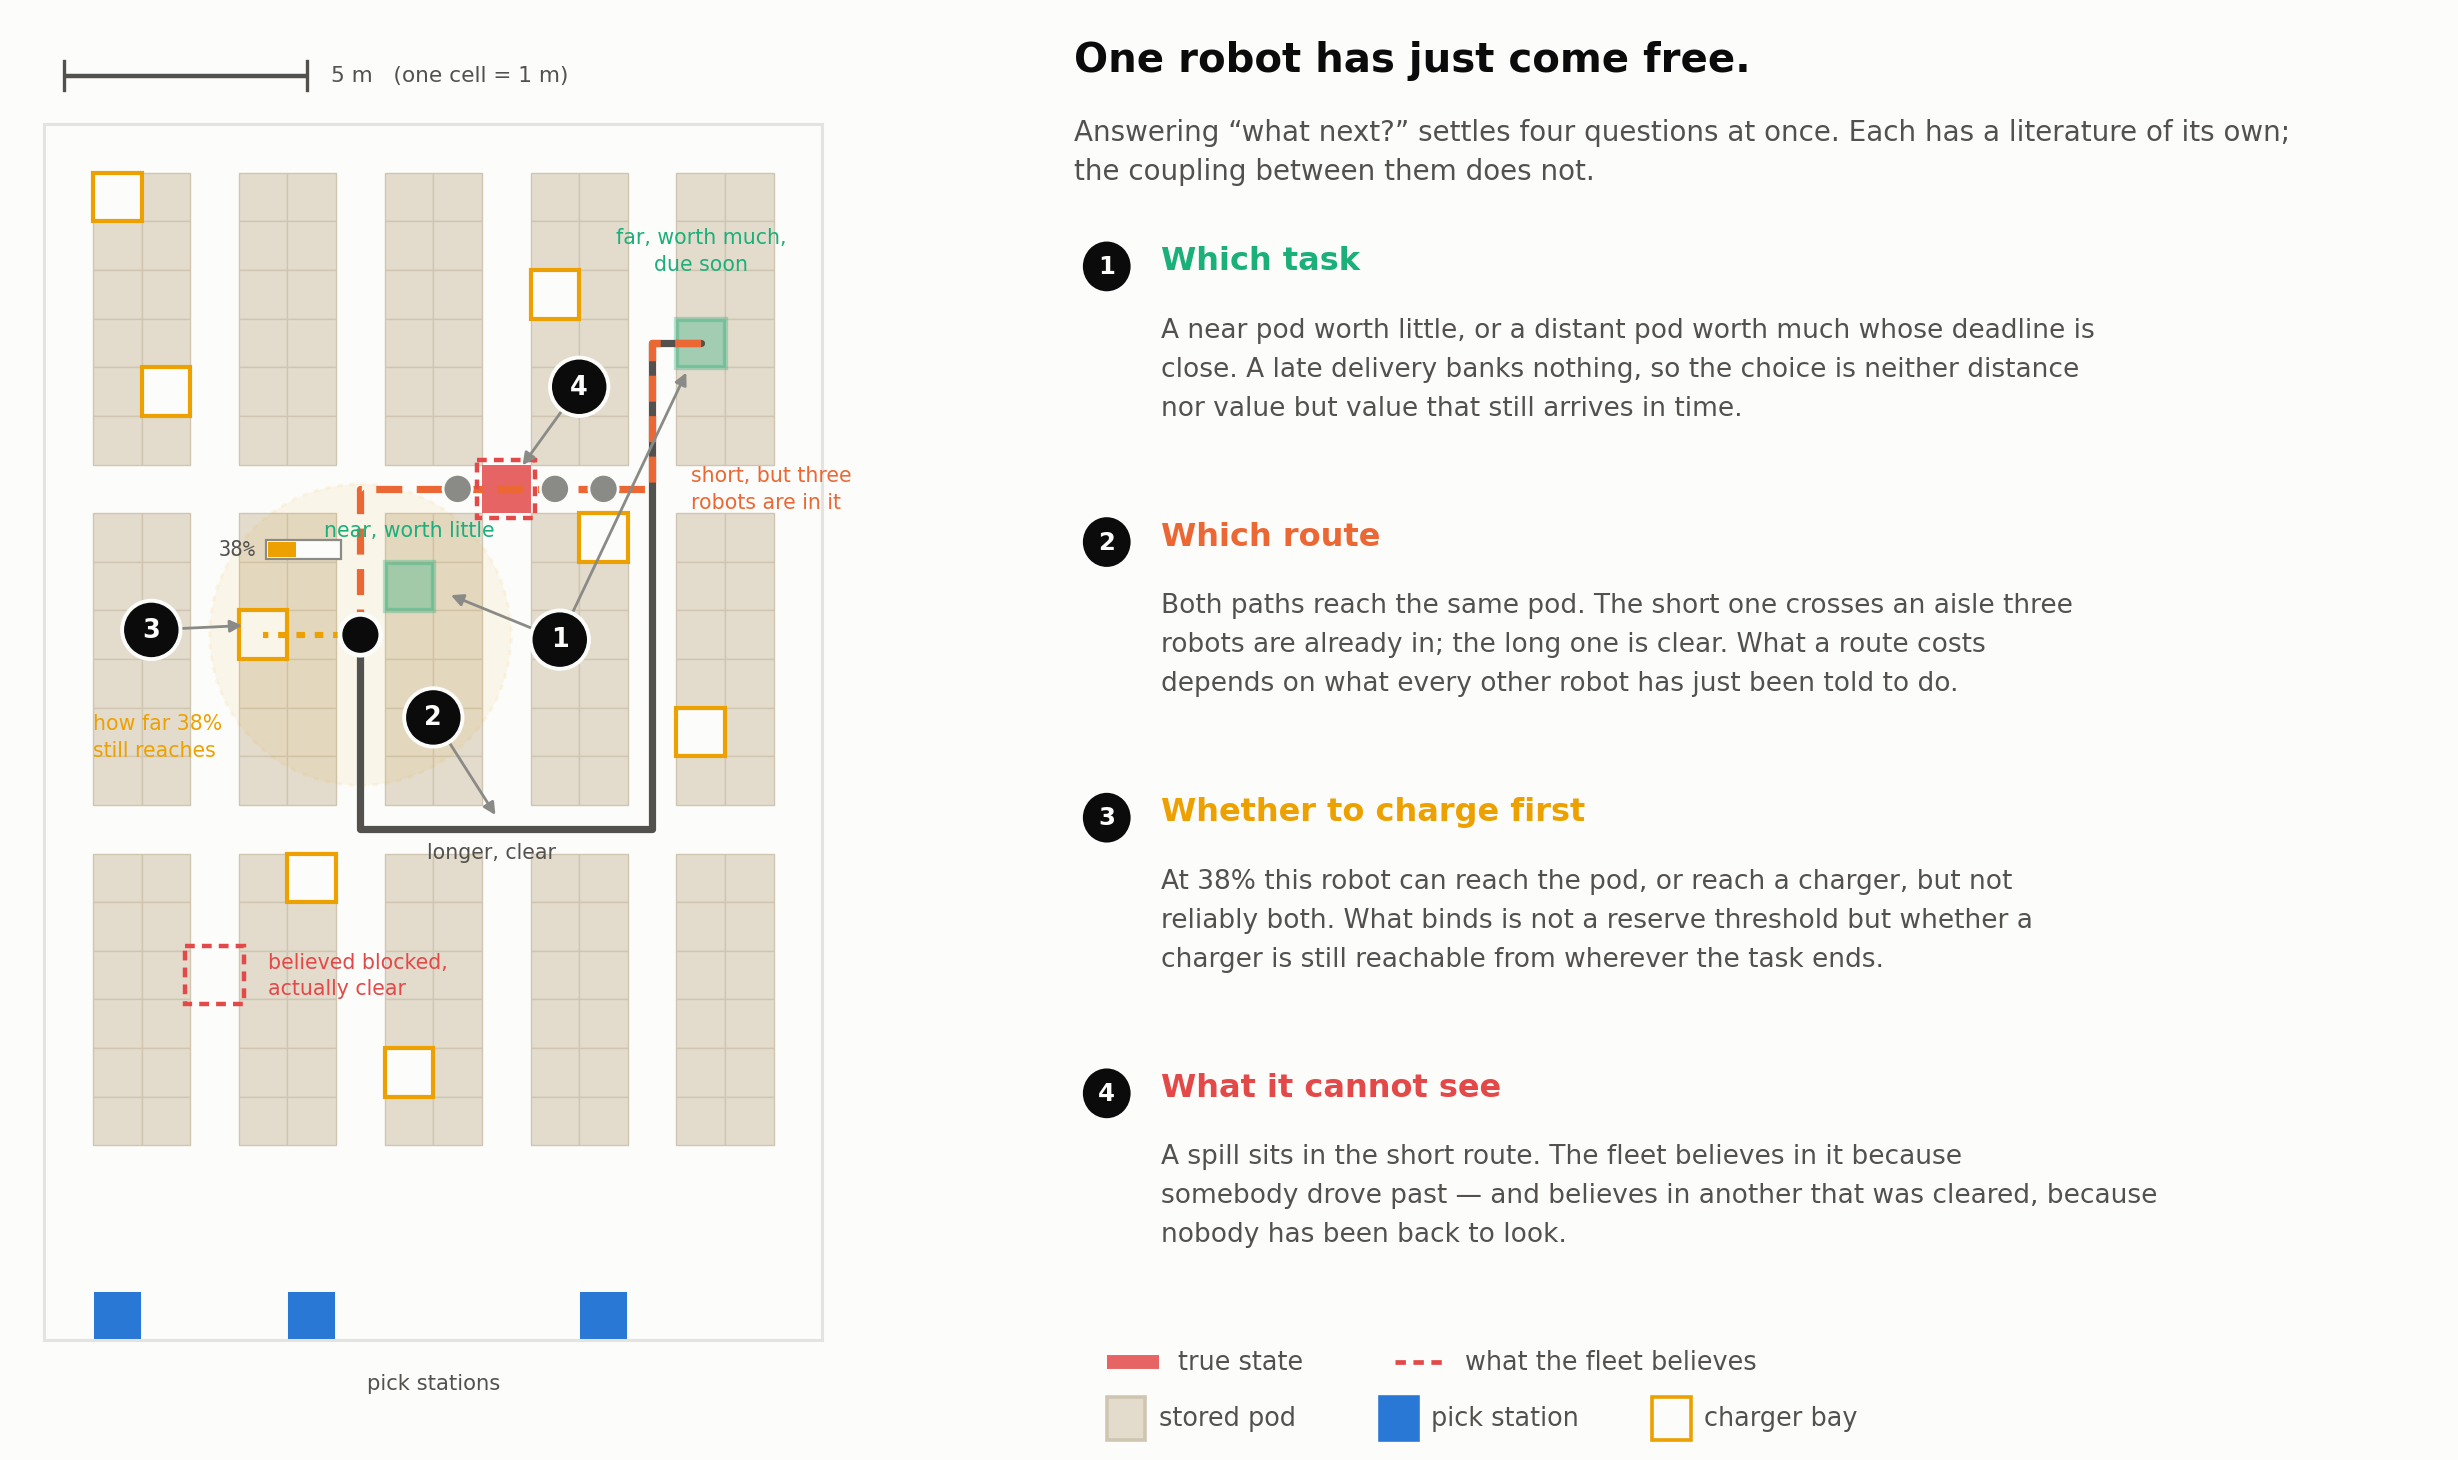
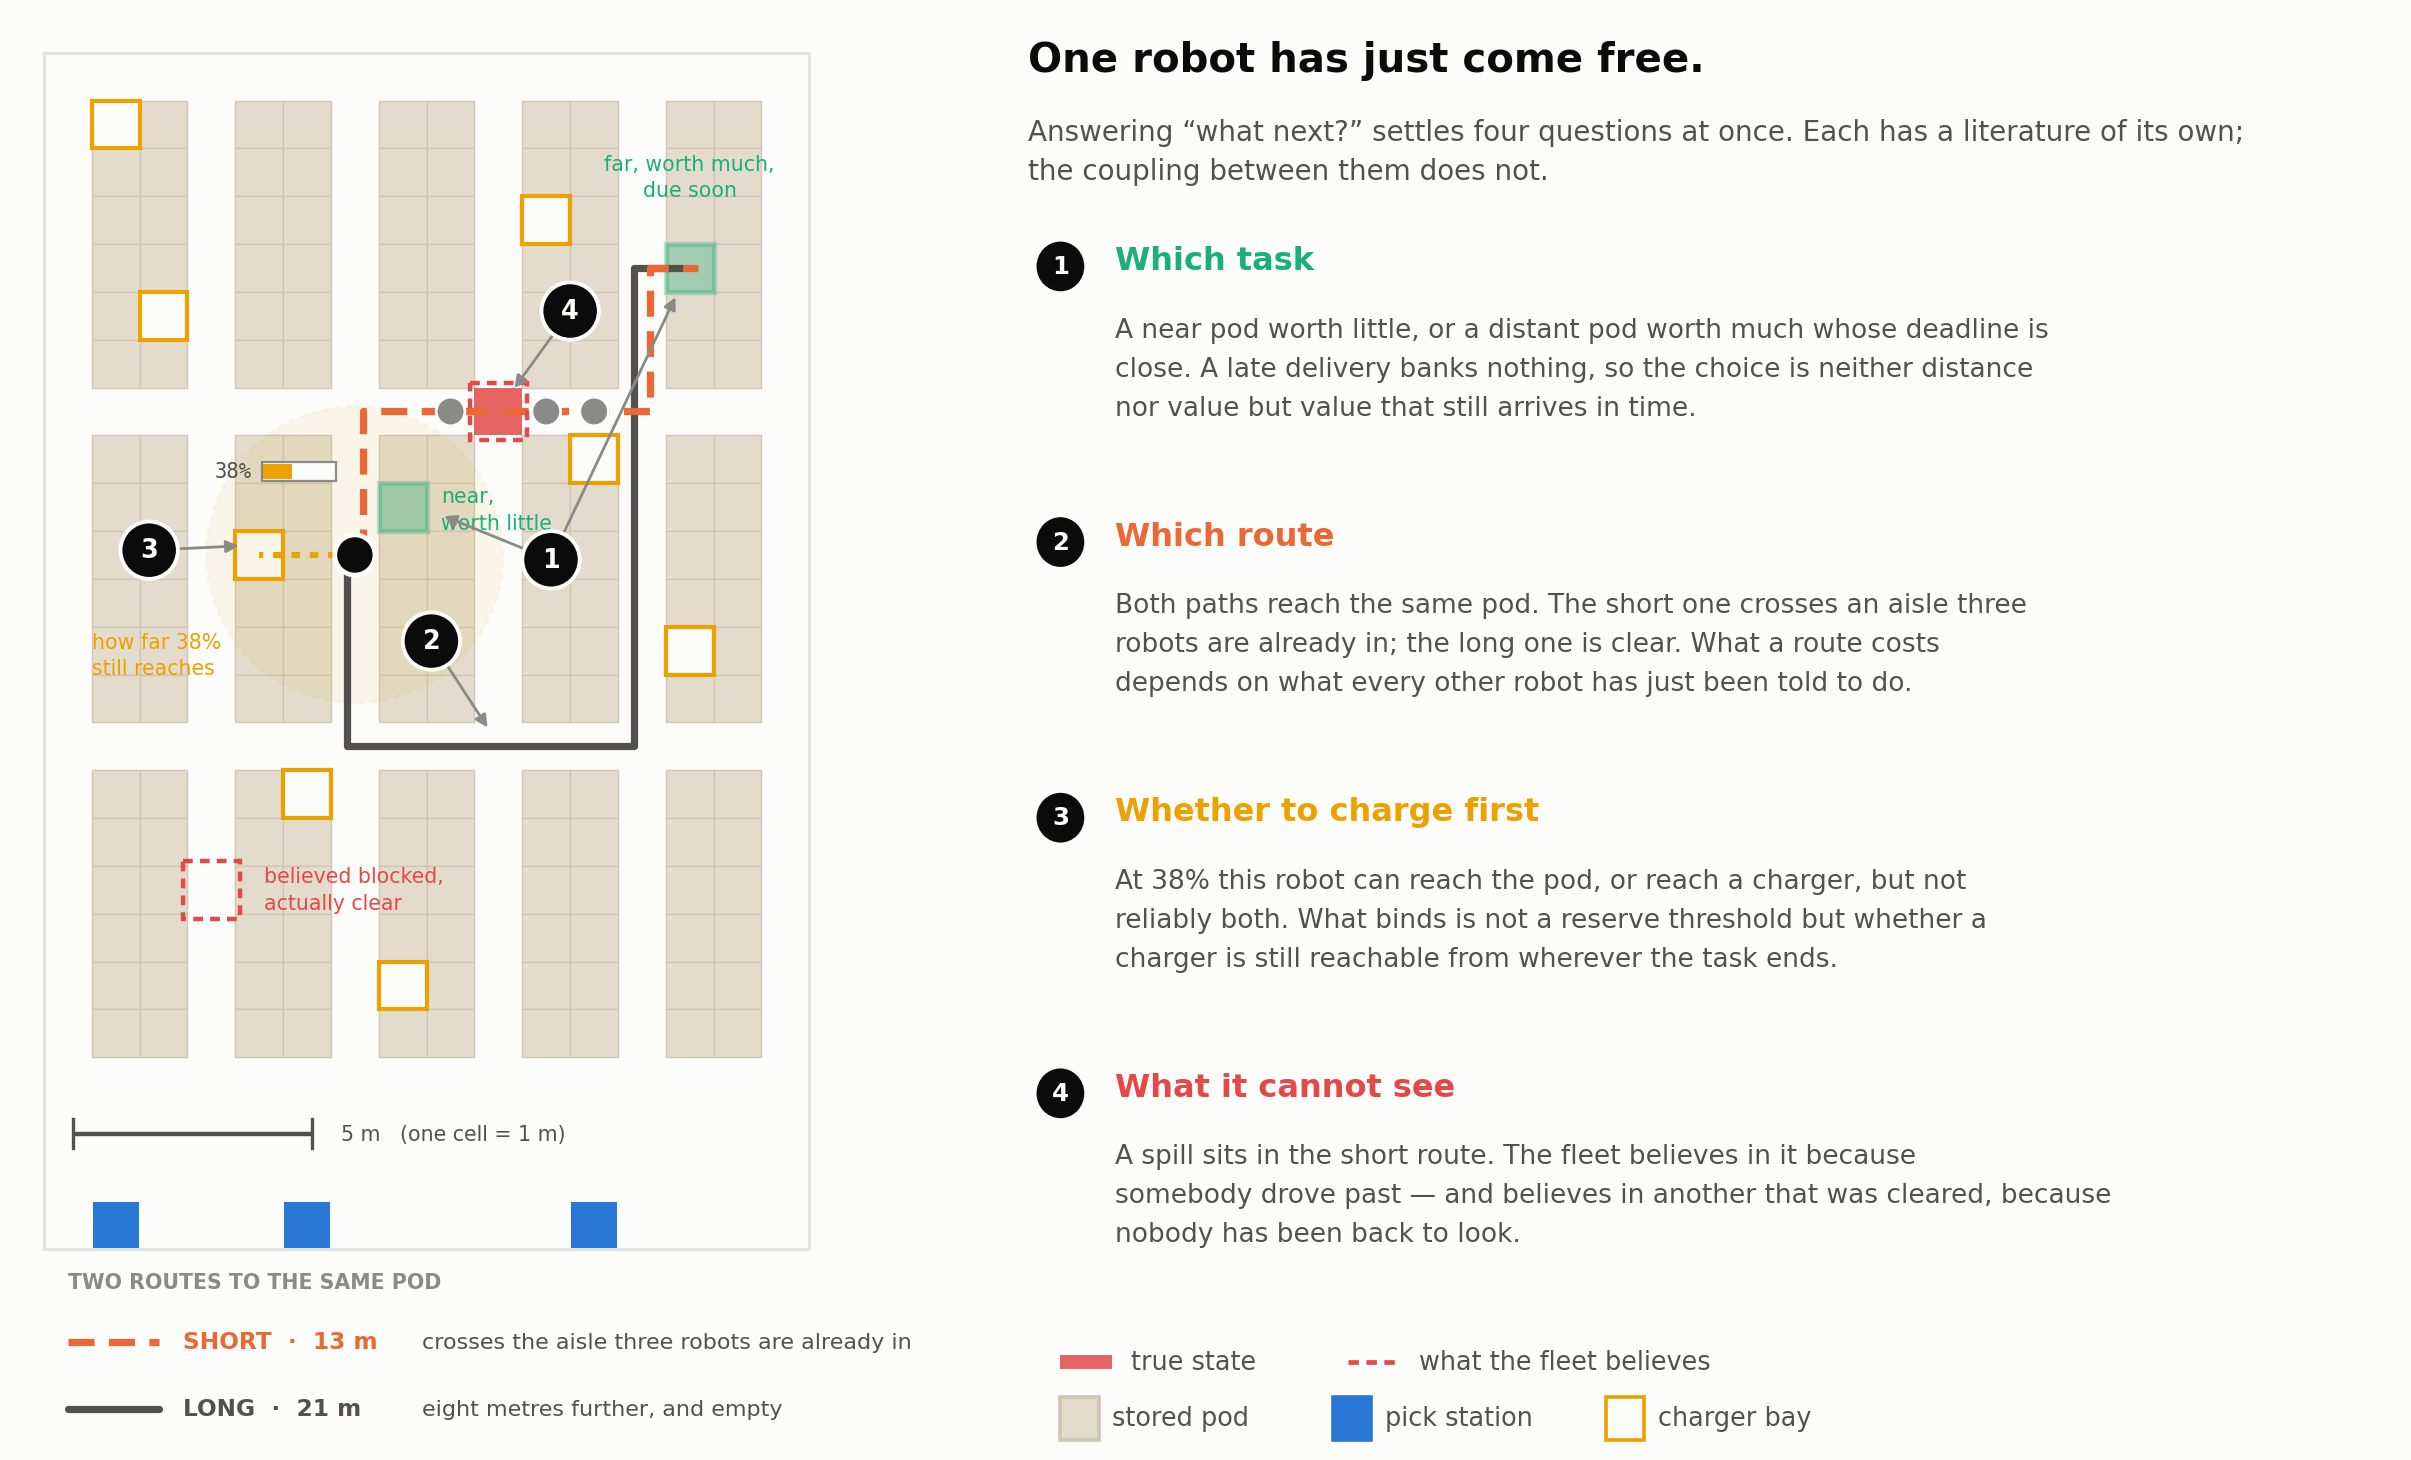
Figure 1: make the two routes traceable and name them
The routes shared the x=12 stretch, so neither could be followed end to end.
Draw them with a small lateral offset and name each in a key below the plan
(SHORT 13 m / LONG 21 m, both verified against the drawn polylines) rather
than in labels squeezed into the aisles, where the text did not fit.

Also: badge 2 now lands on the long route's detour leg instead of blank
aisle, the scale bar moves into the empty cross-aisle band, and the
duplicate "pick stations" floor label goes (the legend already names them).

diff --git a/scripts/make_paper_figures.py b/scripts/make_paper_figures.py
@@ -349,7 +349,7 @@ def fig_coupled():
     hazard red, stations blue. Nothing carries meaning by hue alone -- every element is also
     labelled on the floor.
     """
-    from matplotlib.patches import Rectangle, Circle, FancyArrowPatch
+    from matplotlib.patches import (Rectangle, Circle, FancyArrowPatch, FancyBboxPatch)
     W, H = 16, 25
     aisle_x = {0, 3, 6, 9, 12, 15}
     cross_y = {0, 7, 14, 21, 22, 23, 24}
@@ -377,8 +377,6 @@ def fig_coupled():
             elif not is_hw(x, y):
                 ax.add_patch(Rectangle((x, y), 1, 1, fc=RACK, ec=RACK_E, lw=.5, zorder=1))
     ax.add_patch(Rectangle((0, 0), W, H, fc="none", ec=GRID, lw=1.1, zorder=4))
-    ax.text(W / 2, 25.9, "pick stations", ha="center", va="center", fontsize=7.6,
-            color=INK2, zorder=5)
 
     # ---- (4) hazard: one real, one believed but already cleared -----------------------------
     ax.add_patch(Rectangle((9, 7), 1, 1, fc=BAD, alpha=.85, ec="none", zorder=3))
@@ -390,23 +388,42 @@ def fig_coupled():
             va="center", zorder=7, linespacing=1.4)
 
     # ---- (2) two routes to the same pod ------------------------------------------------------
+    # The two paths share the x = 12 stretch, so they are drawn with a small lateral offset:
+    # without it neither route can be traced end to end where they overlap.
     clear = [(6, 10), (6, 14), (12, 14), (12, 4), (13, 4)]
     congested = [(6, 10), (6, 7), (12, 7), (12, 4), (13, 4)]
-    ax.plot([c(*p)[0] for p in clear], [c(*p)[1] for p in clear],
-            color=INK2, lw=2.6, zorder=5, solid_capstyle="round")
-    ax.plot([c(*p)[0] for p in congested], [c(*p)[1] for p in congested],
-            color=C2, lw=2.6, ls=(0, (3.6, 2.0)), zorder=5, solid_capstyle="round")
+
+    def path(pts, dx):
+        return [c(*p)[0] + dx for p in pts], [c(*p)[1] for p in pts]
+
+    xs, ys = path(clear, -0.17)
+    ax.plot(xs, ys, color=INK2, lw=2.6, zorder=5, solid_capstyle="round")
+    xs, ys = path(congested, +0.17)
+    ax.plot(xs, ys, color=C2, lw=2.6, ls=(0, (3.6, 2.0)), zorder=5, solid_capstyle="round")
+
     for p in ((8, 7), (10, 7), (11, 7)):
         ax.add_patch(Circle(c(*p), .30, fc=INK3, ec=SURFACE, lw=1.0, zorder=7))
-    ax.text(13.3, 7.5, "short, but three\nrobots are in it", fontsize=7.4, color=C2,
-            va="center", zorder=7, linespacing=1.4)
-    ax.text(9.2, 15.1, "longer, clear", fontsize=7.4, color=INK2, ha="center", zorder=7)
+
+    # Both routes start at the robot and end at the same pod, so they are named in a key below
+    # the floor rather than in labels on it: the aisles are too narrow to hold legible text.
+    def route_key(row, col, dash, name, dist, note):
+        y = 26.95 + row * 1.40
+        ax.plot([0.5, 2.4], [y, y], color=col, lw=2.6, zorder=6,
+                ls=(0, (3.6, 2.0)) if dash else "solid", solid_capstyle="round")
+        ax.text(2.9, y, "%s  ·  %d m" % (name, dist), fontsize=8.4, fontweight="bold",
+                color=col, va="center", zorder=6)
+        ax.text(7.9, y, note, fontsize=8.0, color=INK2, va="center", zorder=6)
+
+    route_key(0, C2, True, "SHORT", 13, "crosses the aisle three robots are already in")
+    route_key(1, INK2, False, "LONG", 21, "eight metres further, and empty")
+    ax.text(0.5, 25.70, "TWO ROUTES TO THE SAME POD", fontsize=7.4, color=INK3,
+            va="center", fontweight="bold", zorder=6)
 
     # ---- (1) two candidate pods ---------------------------------------------------------------
     ax.add_patch(Rectangle((7, 9), 1, 1, fc=C3, alpha=.32, ec=C3, lw=1.9, zorder=3))
     ax.add_patch(Rectangle((13, 4), 1, 1, fc=C3, alpha=.32, ec=C3, lw=1.9, zorder=3))
-    ax.text(7.5, 8.35, "near, worth little", fontsize=7.4, color=C3, ha="center",
-            va="center", zorder=7)
+    ax.text(8.30, 9.55, "near,\nworth little", fontsize=7.4, color=C3, ha="left",
+            va="center", zorder=7, linespacing=1.4)
     ax.text(13.5, 2.6, "far, worth much,\ndue soon", fontsize=7.4, color=C3, ha="center",
             va="center", zorder=7, linespacing=1.4)
 
@@ -427,7 +444,7 @@ def fig_coupled():
 
     # ---- numbered badges ----------------------------------------------------------------------
     for n, (px, py), tgt in ((1, (10.6, 10.6), (13.3, 4.9)),
-                             (2, (8.0, 12.2), (9.4, 14.4)),
+                             (2, (8.1, 12.3), (9.4, 14.3)),
                              (3, (2.2, 10.4), (4.3, 10.3)),
                              (4, (11.0, 5.4), (9.7, 7.2))):
         ax.add_patch(FancyArrowPatch((px, py), tgt, arrowstyle="-|>", mutation_scale=9,
@@ -439,13 +456,13 @@ def fig_coupled():
                                  color=INK3, lw=1.0, shrinkA=10, shrinkB=4, zorder=8))
 
     # ---- scale bar ------------------------------------------------------------------------------
-    ax.plot([0.4, 5.4], [-1.0, -1.0], color=INK2, lw=1.6, solid_capstyle="butt")
-    for xx in (0.4, 5.4):
-        ax.plot([xx, xx], [-1.3, -0.7], color=INK2, lw=1.2)
-    ax.text(5.9, -1.0, "5 m   (one cell = 1 m)", va="center", fontsize=7.8, color=INK2)
+    ax.plot([0.6, 5.6], [22.6, 22.6], color=INK2, lw=1.6, solid_capstyle="butt", zorder=5)
+    for xx in (0.6, 5.6):
+        ax.plot([xx, xx], [22.3, 22.9], color=INK2, lw=1.2, zorder=5)
+    ax.text(6.2, 22.6, "5 m   (one cell = 1 m)", va="center", fontsize=7.4, color=INK2, zorder=5)
 
-    ax.set_xlim(-0.5, W + 3.9)
-    ax.set_ylim(H + 1.9, -2.0)
+    ax.set_xlim(-0.5, W + 2.3)
+    ax.set_ylim(H + 4.0, -0.7)
     ax.set_aspect("equal")
     ax.axis("off")
 
